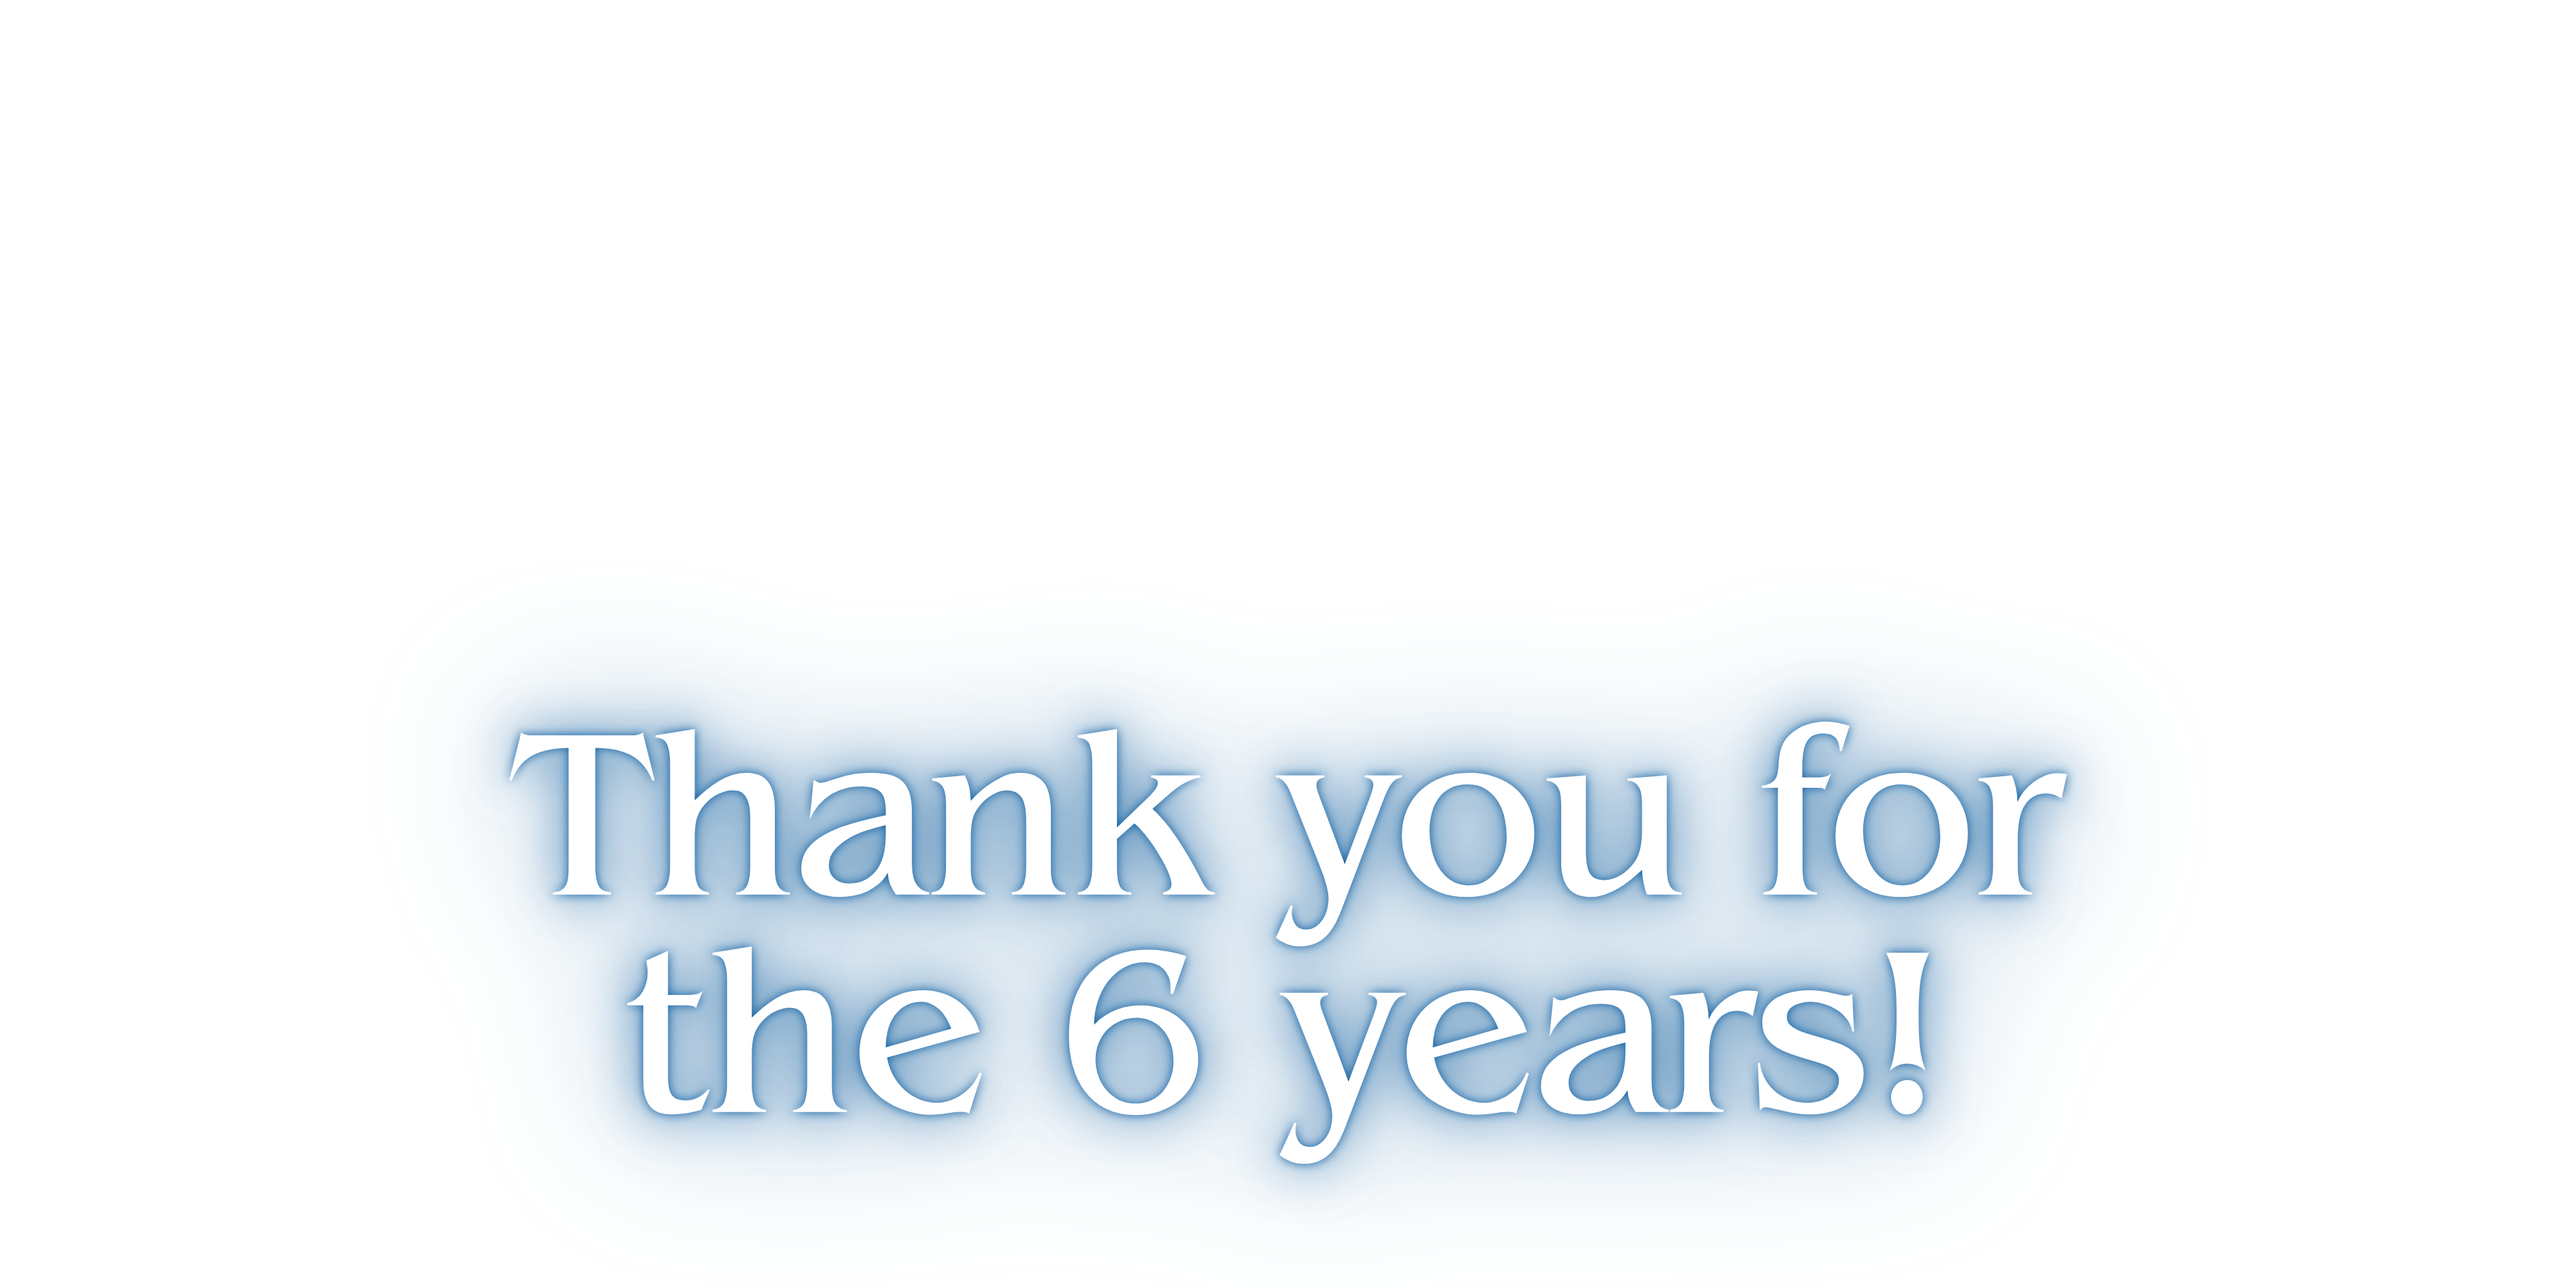
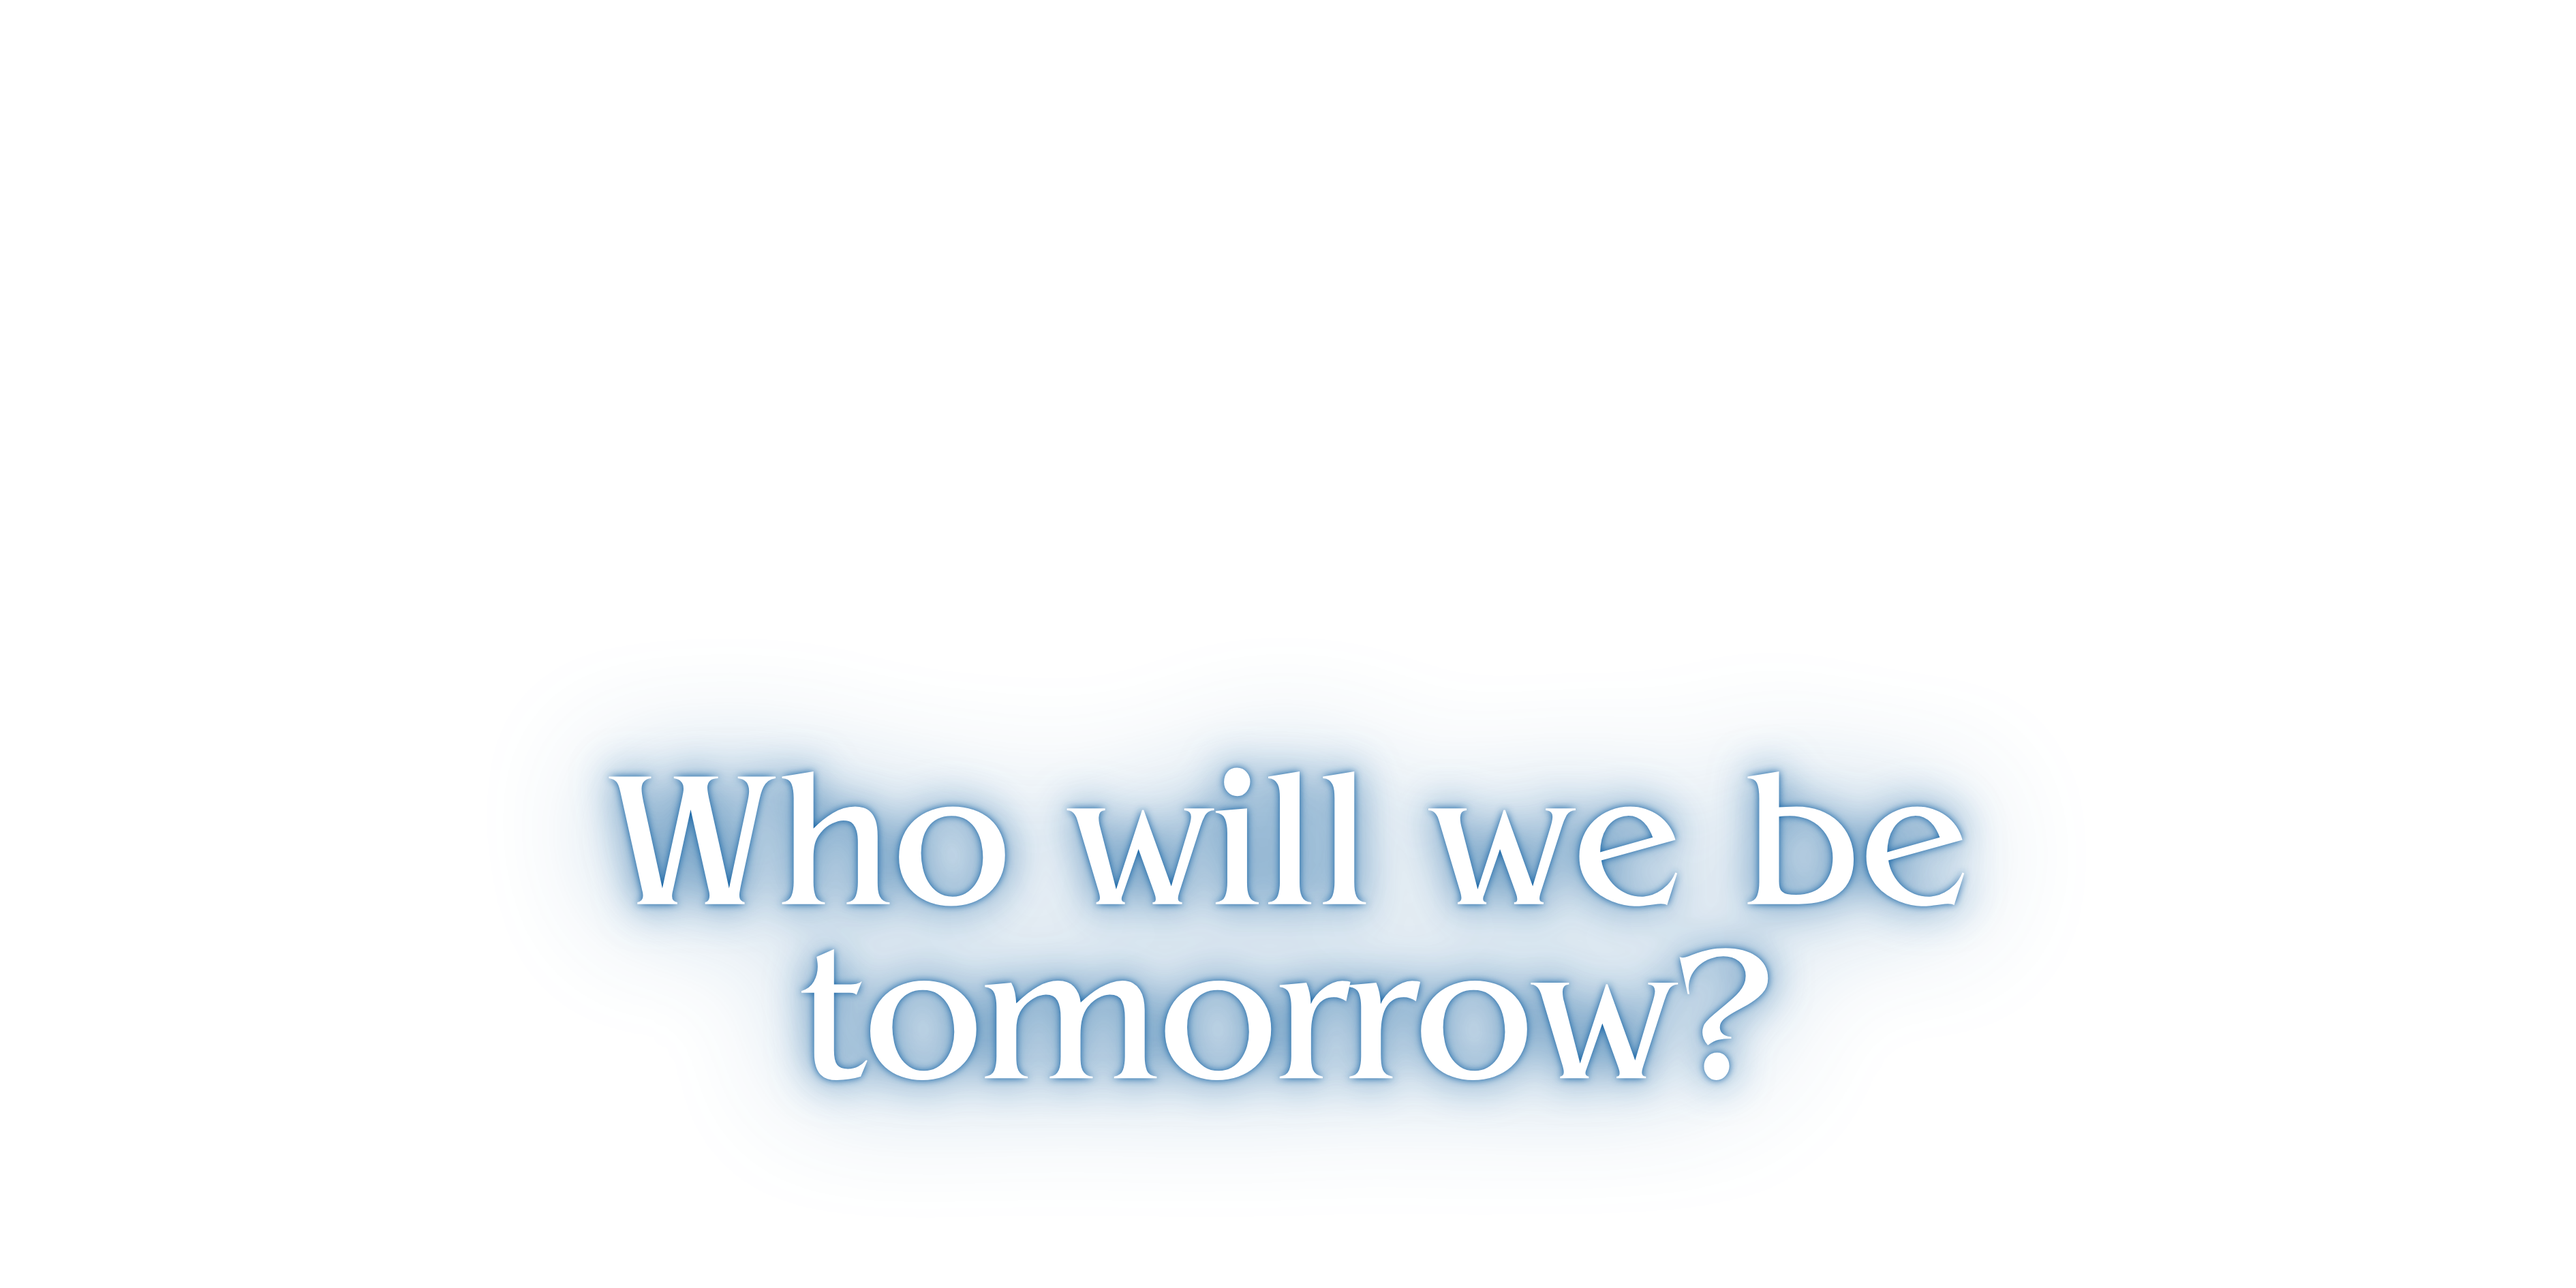
new

Changed region(s): [[0.1873, 0.5307, 0.8116, 0.9365]]

diff --git a/css/home.css b/css/home.css
@@ -582,10 +582,10 @@ header .navbar {
   
  .gradient-3-4 {
     position: relative;
-    top: 30vh;
+    top: -5vh;
     left: 0;
     width: 110vw;
-    height: 110vh;
+    height: 100vh;
     overflow: hidden;
     z-index: 500000;
     display: flex;
@@ -595,8 +595,7 @@ header .navbar {
 }
 
 #gradient-3-4-5 {
-    height: auto;
-    max-height: 100%;
+    max-height: 160%;
     object-fit: contain;
     opacity: 1;
     pointer-events: none;
@@ -623,6 +622,7 @@ header .navbar {
     max-width: 200px;
     z-index: 74;
     position: relative; /* needed for z-index */
+    margin-left: 2rem;
 }
 
 /* Mobile optimization */
@@ -648,31 +648,11 @@ header .navbar {
     top: 0;
     height: 100vh;
     width: 100%;
-    margin-bottom: -81vh;
 
     overflow-wrap: break-word;
     word-wrap: break-word;
     word-break: break-word;
     text-align: center;
-  }
-
-  .prophecy-slide-sub .gradient-layer-ko {
-    object-fit: cover;
-    height: 100vh;
-    max-width: 100%;
-    margin-top: -500vh;
-    z-index: -10000;
-  }
-
-  .gradient-layer-ko {
-    position: absolute;
-    top: -50%;          /* Pulls the image upward to show the top part */
-    height: 200%;       /* Extends the image taller so it doesn't get cropped */
-    width: 100%;
-    object-fit: cover;
-    opacity: 0.3;
-    z-index: 70;        /* Just below other upper layers */
-    pointer-events: none;
   }
   
   .upper {
@@ -699,7 +679,6 @@ header .navbar {
 /* Tarot Cards Layer */
 .tarot-cards {
     position: relative;
-    transform: translateX(5vw); /* Responsive offset */
     z-index: 90;
     display: flex;
     flex-wrap: wrap; /* Allow wrapping on small screens */
@@ -715,7 +694,7 @@ header .navbar {
 
 .prophecy-slide-sub > img.img-layer:nth-child(2) {
     z-index: 75;
-    width: 100vw;
+    width: 120vw;
     height: auto;
     max-height: 100vh;
     object-fit: contain;
@@ -729,6 +708,25 @@ header .navbar {
     object-fit: contain;
 }
 
-  
+.prophecy-slide, .gradient-3-4 {
+    width: 100vw;
+    overflow-x: hidden;
+}
 
+.prophecy-slide-sub, .gradient-3-4 img {
+    width: 100%;
+    display: block;
+}
+
+.img-layer, .img-tarots {
+    display: block;
+    width: 100%;
+}
+.prophecy-slide {
+    width: 100vw;
+    background-image: url('../media/images/layer-mountain.png');
+    background-size: cover;
+    background-position: center;
+    background-repeat: no-repeat;
+}
   

diff --git a/index.html b/index.html
@@ -166,9 +166,6 @@
     <div class="prophecy-slide">
         <div class="prophecy-slide-sub">
             <div class="upper">
-                
-                <img src="media/images/layer-mountain.png" class="img-layer" />
-                <img src="media/images/layer-hill.png" class="img-layer" />
                 <img src="media/images/layer-text-thanks.png" class="img-layer" />
             </div>
             <div class="tarot-cards">
